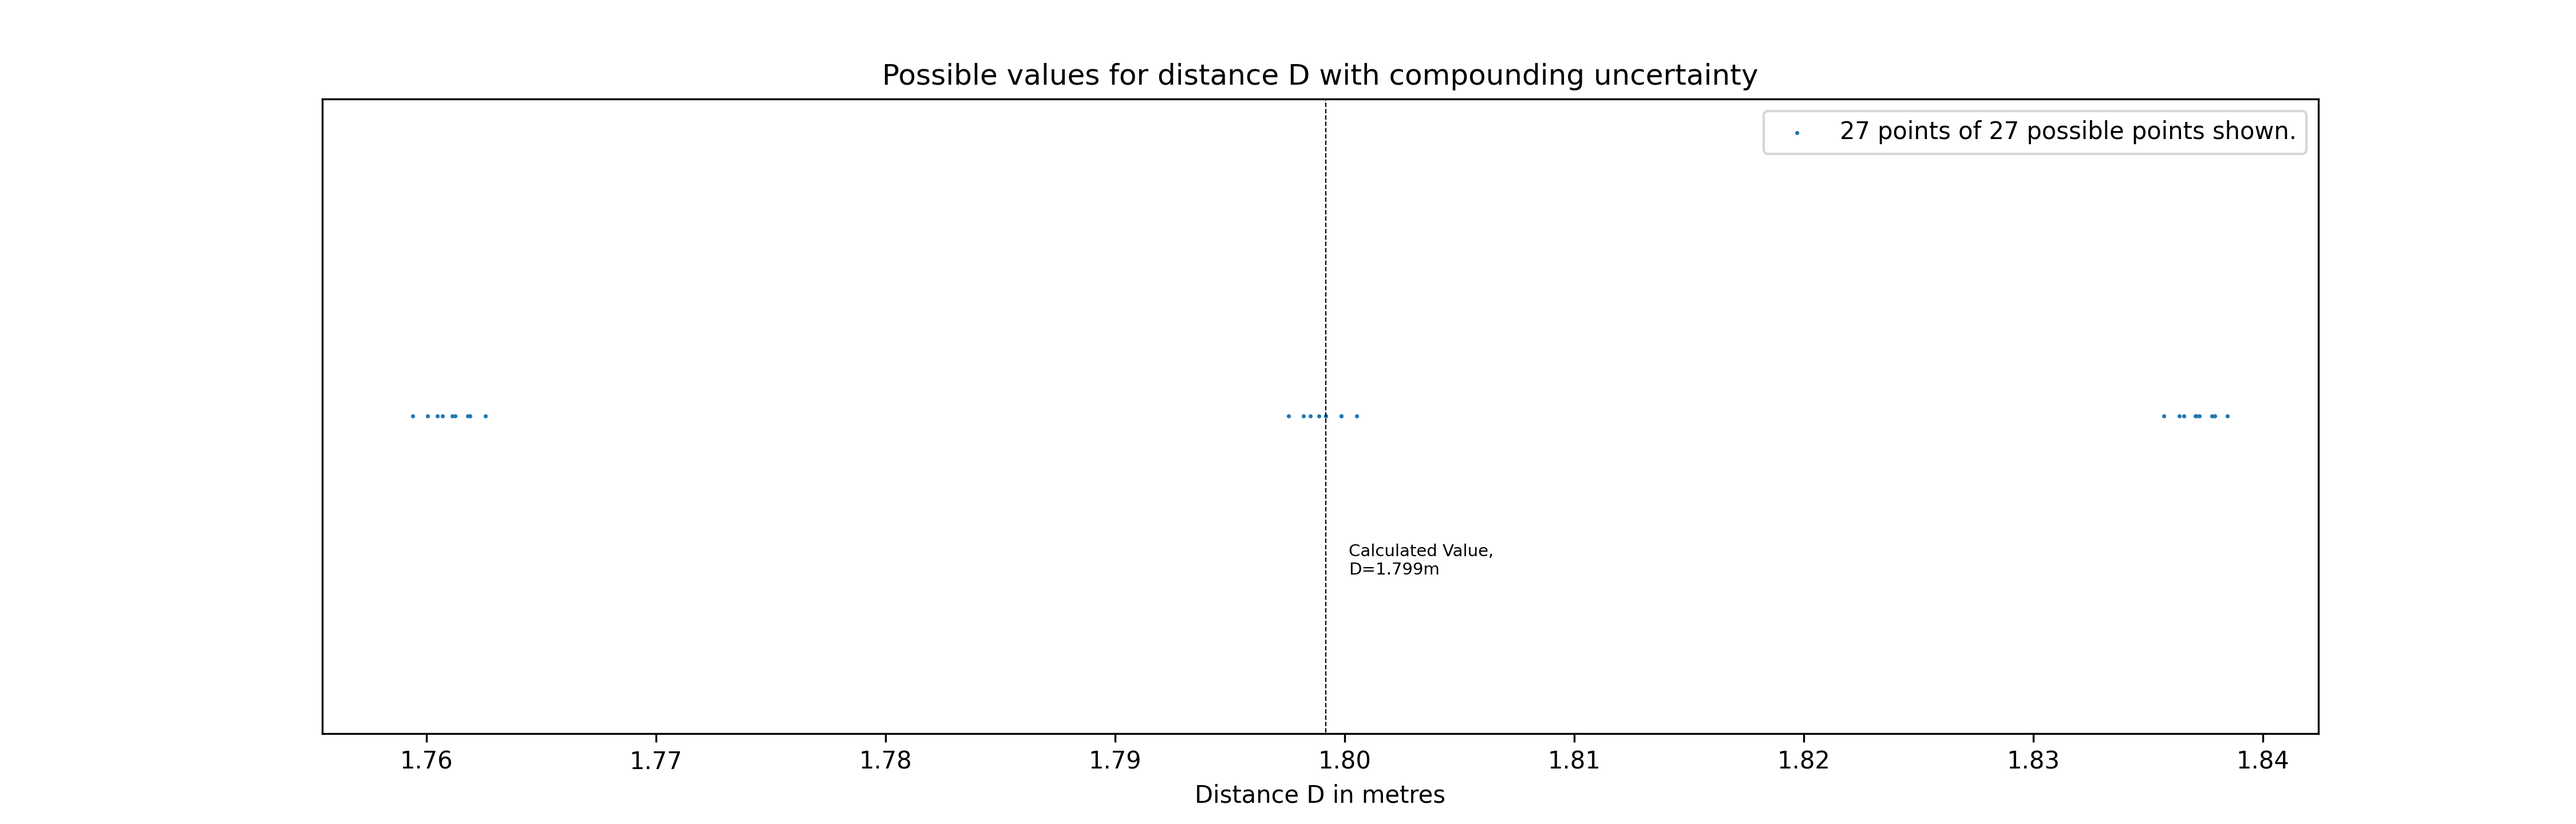
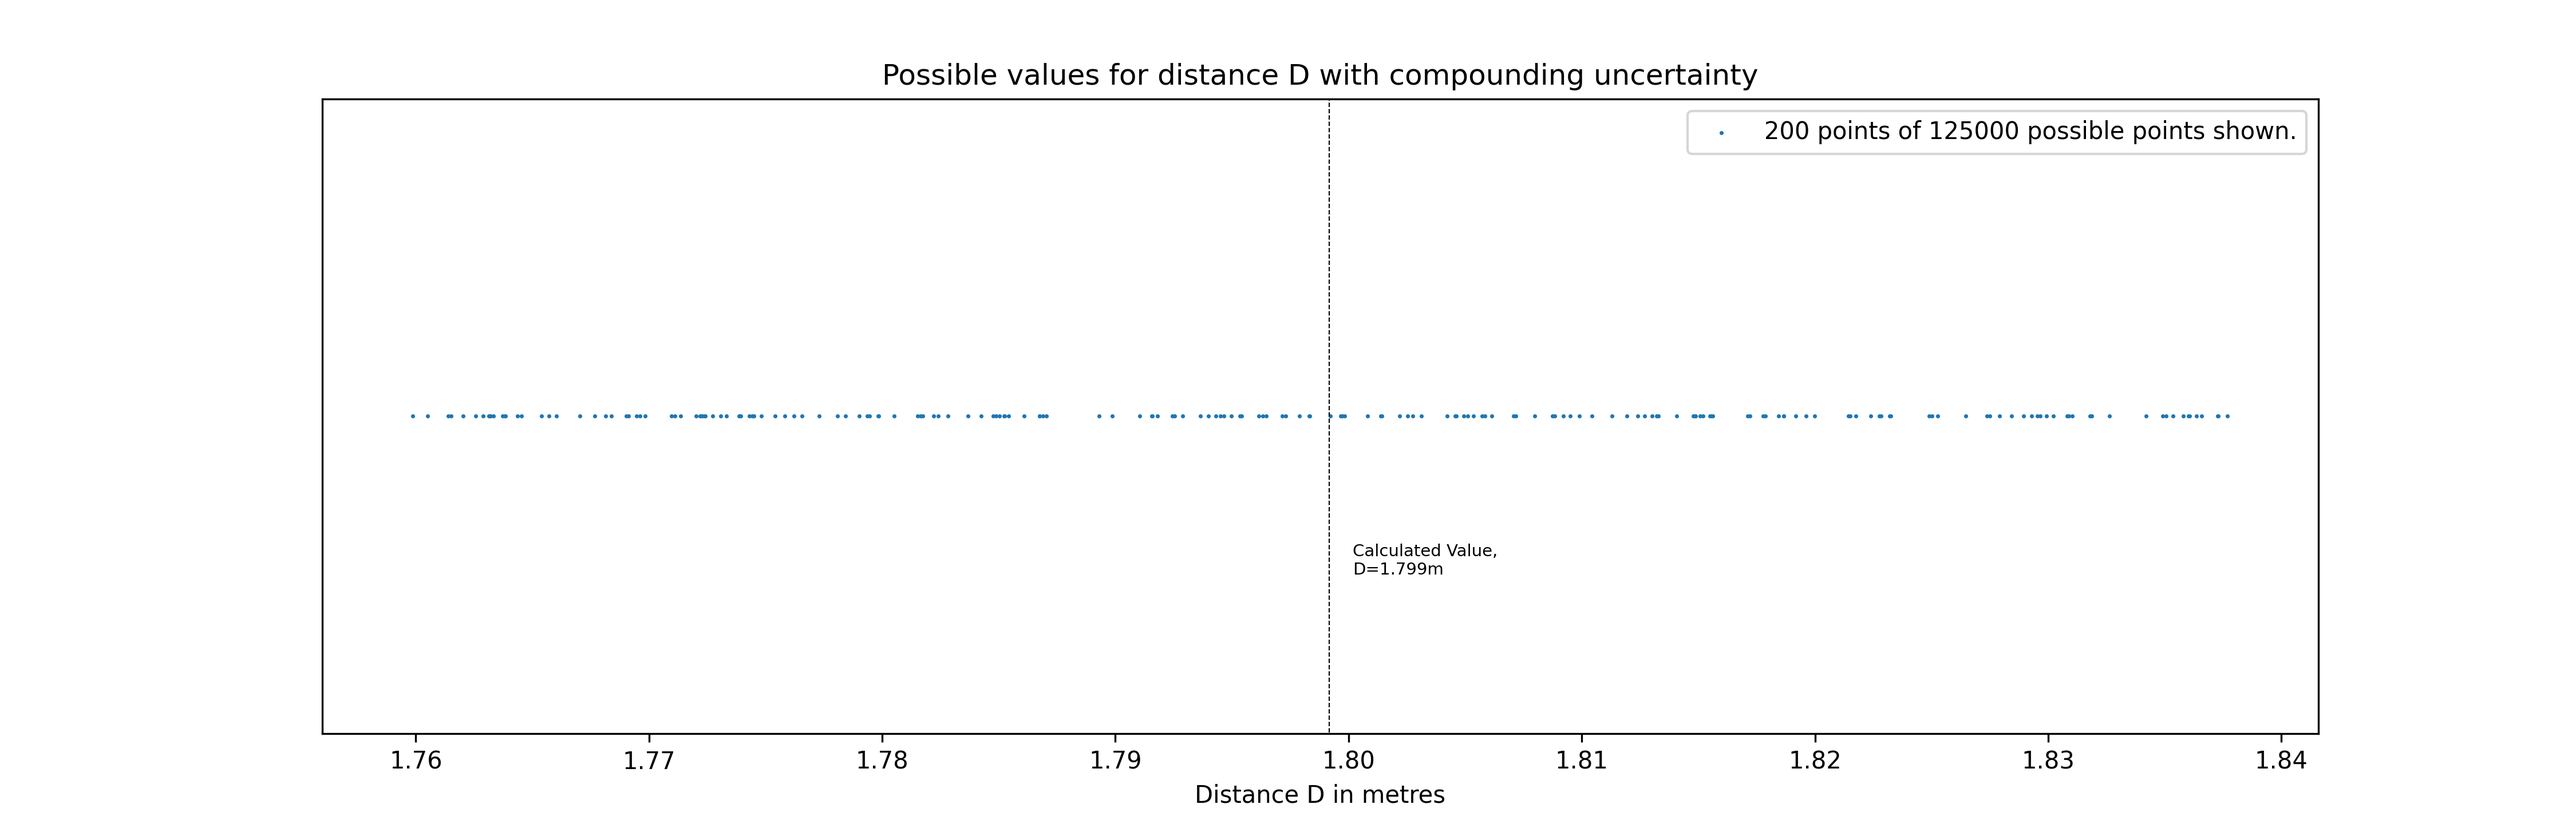
Added Bouncer3

diff --git a/Bouncer3.py b/Bouncer3.py
@@ -4,10 +4,18 @@
 #This program will graphically represent the effects of any uncertainty in the motion 
 # of a projectile leaving a tube at a fixed height and angle.
 
+'''This program is different to Bouncers 1 and 2 in that it allows the user to set the
+number of restitutions, thetas and h2s to use.'''
 
 import math
 import numpy as np
 import matplotlib.pyplot as plt
+from random import sample
+
+n_theta = 50 #Number of theta values needed
+n_h2 = 50 #Number of h2 values needed
+n_e = 50 #Number of restitution values needed
+
 
 #Length of tube (in m)
 l = 1
@@ -16,25 +24,31 @@ l = 1
 g = 9.81
 
 #Angle of tube & uncertainty
-theta = 36
-theta_unc = 0.5
+theta = 36 * math.pi/180
+theta_unc = 0.5  * math.pi/180
 
 #Possible thetas, in radians
-thetas = [(theta - theta_unc)*math.pi/180, (theta)*math.pi/180, (theta + theta_unc)*math.pi/180]
+thetas = []
+for x in range(n_theta):
+    thetas.append(theta - theta_unc + x * (theta_unc * 2 / (n_theta - 1)))
 
 #Height of base of tube & uncertainty
 h2 = 0.678
 h2_unc = 0.0005
 
 #Possible h2s
-h2s = [h2 - h2_unc, h2, h2 + h2_unc]
+h2s = []
+for x in range(n_h2):
+    h2s.append(h2 - h2_unc + x * (h2_unc * 2 / (n_h2 - 1)))
 
 #Coefficient of Restitution & uncertainty
 e = 0.6557
 e_unc = 0.02
 
 #Possible es
-es = [e - e_unc, e, e + e_unc]
+es = []
+for x in range(n_e):
+    es.append(e - e_unc + x * (e_unc * 2 / (n_h2 - 1)))
 
 #Initialise vectors (for definitions see diagram in main report)
 vs = []     #All possible V
@@ -87,10 +101,13 @@ for theta in thetas:
 
 #Stores the actual number of possibilities:
 num_Ds = len(Ds)
-#This number is over 177,000. Plotting all of these is pointless
 
 #If any D values are to be excluded from the plot, slice Ds list here.
-new_Ds = Ds
+try:
+    new_Ds = sample(Ds, 200)
+
+except:
+    new_Ds = Ds
 
 #Stores the plotted number of possibilities:
 num_nDs = len(new_Ds)
@@ -108,7 +125,7 @@ plt.tick_params(axis='y', which='both', left=False, right=False, labelleft=False
 plt.vlines(1.79917, 0, 2, colors='k', linestyles='dashed', linewidth=0.5)
 plt.annotate('Calculated Value,\nD=1.799m', (1.79917+0.001, 0.95), size=7)
 plt.legend([str(num_nDs) + ' points of ' + str(num_Ds) + ' possible points shown.'])
-plt.savefig('Bouncer2 Uncertainty.png', dpi=300)
+plt.savefig('Bouncer3 Uncertainty.png', dpi=300)
 plt.show()
 
 #Creates a table summarising inaccuracy
@@ -127,5 +144,5 @@ table = [
 table = plt.table(cellText=table, loc='center')
 plt.axis('off')
 table.scale(1, 2)
-plt.savefig('Bouncer2 Table.png', dpi=300)
+plt.savefig('Bouncer3 Table.png', dpi=300)
 plt.show()

diff --git a/Bouncer.py b/Bouncer.py
@@ -4,6 +4,8 @@
 #This program will graphically represent the effects of any uncertainty in the motion 
 # of a projectile leaving a tube at a fixed height and angle.
 
+'''This program is inaccurate, as it assumes that the values of theta, e, and h2 can vary mid-run.
+It has been updated with Bouncer2.py, and the more customisable Bouncer3.py'''
 
 import math
 import numpy as np
@@ -41,18 +43,21 @@ vs = []
 for theta in thetas:
     h2 = math.sin(theta)
     vs.append(math.sqrt((10/7)*g*h2))
+print('vs' + str(len(vs)))
 
 #Creates possible values of ux
 uxs = []
 for u in vs:
     for theta in thetas:
         uxs.append(u*math.cos(theta))
+print('uxs' + str(len(uxs)))
 
 #Creates possible values of uy
 uys = []
 for u in vs:
     for theta in thetas:
         uys.append(u*math.sin(theta))
+print('uys' + str(len(uys)))
 
 #Creates list of possible t1s
 t1s = []
@@ -60,12 +65,14 @@ for vy in uys:
     for h in h2s:
         t = (-vy + math.sqrt((vy**2) - 4 * (g/2) * (-h)))/(2 * (g/2))
         t1s.append(t)
+print('t1s' + str(len(t1s)))
 
 #Creates list of b1s
 b1s = []
 for t1 in t1s:
     for ux in uxs:
         b1s.append(t1*ux)
+print('b1s' + str(len(b1s)))
 
 #Creates list of Vya, vy after 1st impact
 vyas = []
@@ -74,11 +81,13 @@ for e in es:
         for h2 in h2s:
             vyb = math.sqrt((uy**2) + 2 * g * h2)
             vyas.append(vyb * e)
+print('vyas' + str(len(vyas)))
 
 #Creates a list of t2s
 t2s = []
 for vya in vyas:
     t2s.append(2 * (vya/g))
+print('t2s' + str(len(t2s)))
 
 #Finally, creates list of Ds
 Ds = []
@@ -88,6 +97,7 @@ for b1 in b1s:
             b2 = t2 * ux
             D = b1 + b2
             Ds.append(D)
+print('Ds' + str(len(Ds)))
 
 #Stores the actual number of possibilities:
 num_Ds = len(Ds)
